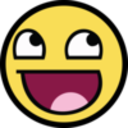
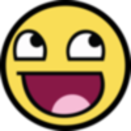
Make it work with shaders

diff --git a/shader.cpp b/shader.cpp
@@ -1,0 +1,105 @@
+#include <cassert>
+#include <stdexcept>
+#include <string>
+
+#include "shader.h"
+
+Shader::Shader(GLenum type, const char *source) : type(type)
+{
+	this->id = glCreateShader(type);
+
+	// Load & compile
+	glShaderSource(this->id, 1, &source, nullptr);
+	glCompileShader(this->id);
+
+	// Get compile result
+	GLint status;
+	glGetShaderiv(this->id, GL_COMPILE_STATUS, &status);
+
+	if (status != GL_TRUE) {
+		GLint loglen;
+		glGetShaderiv(this->id, GL_INFO_LOG_LENGTH, &loglen);
+
+		char *infolog = new char[loglen];
+		glGetShaderInfoLog(this->id, loglen, nullptr, infolog);
+
+		std::string err = "Failed to compile ";
+		err += Shader::TypeToString(this->type);
+		err += " shader:\n";
+		err += infolog;
+		delete infolog;
+		throw std::runtime_error(err);
+	}
+}
+
+Shader::~Shader()
+{
+	glDeleteShader(this->id);
+}
+
+/* static */ const char *Shader::TypeToString(GLenum type)
+{
+	switch (type) {
+		case GL_VERTEX_SHADER:
+			return "vertex";
+		case GL_FRAGMENT_SHADER:
+			return "fragment";
+		case GL_GEOMETRY_SHADER:
+			return "geometry";
+		default:
+			throw std::runtime_error("Unknown shader type");
+	}
+}
+
+ShaderProgram::ShaderProgram(Shader *vert, Shader *frag)
+{
+	this->id = glCreateProgram();
+
+	glAttachShader(this->id, vert->id);
+	glAttachShader(this->id, frag->id);
+
+	glLinkProgram(this->id);
+	GLint status;
+	glGetProgramiv(this->id, GL_LINK_STATUS, &status);
+	if (status != GL_TRUE) {
+		// TODO: More debug info
+		throw std::runtime_error("Program failed to link");
+	}
+
+	glValidateProgram(this->id);
+	glGetProgramiv(this->id, GL_VALIDATE_STATUS, &status);
+	if (status != GL_TRUE) {
+		// TODO: More debug info
+		throw std::runtime_error("Program failed to validate");
+	}
+
+	this->pos_id = glGetAttribLocation(this->id, "vertex_position");
+	this->mvpm_id = glGetUniformLocation(this->id, "mvp_matrix");
+	assert(this->pos_id != -1 || this->mvpm_id != -1);
+
+	glDetachShader(this->id, vert->id);
+	glDetachShader(this->id, frag->id);
+
+	this->tex_coord = glGetAttribLocation(this->id, "tex_coords");
+	this->texture = glGetUniformLocation(this->id, "texture");
+	assert(this->tex_coord != -1 || this->texture != -1);
+
+	this->Use();
+	glUniform1i(this->texture, 0); // Necessary?
+	this->StopUsing();
+}
+
+ShaderProgram::~ShaderProgram()
+{
+	glDeleteProgram(this->id);
+}
+
+void ShaderProgram::Use()
+{
+	glUseProgram(this->id);
+}
+
+void ShaderProgram::StopUsing()
+{
+	glUseProgram(0);
+}

diff --git a/texture.cpp b/texture.cpp
@@ -3,7 +3,7 @@
 #include <SDL2/SDL_image.h>
 
 #include "texture.h"
-
+#include "video.h"
 
 Texture::Texture(const std::string &filepath)
 {
@@ -40,33 +40,54 @@ Texture::Texture(const std::string &filepath)
 	glTexImage2D(GL_TEXTURE_2D, 0, int_format, this->width, this->height, 0, format, GL_UNSIGNED_BYTE, surface->pixels);
 
 	SDL_FreeSurface(surface);
-	glBindTexture(GL_TEXTURE_2D, 0); // Unbind from current texture
+
+	glGenBuffers(1, &this->vbo);
 }
 
 Texture::~Texture()
 {
 	glDeleteTextures(1, &this->texid);
+	glDeleteBuffers(1, &this->vbo);
 }
 
 void Texture::OnDraw(int x, int y) const
 {
-	glColor4f(1, 1, 1, 1); // Black?
+	glColor4f(1, 1, 1, 1); // Should be black?
+
+	auto shader = _vid.GetShader(0);
+
+	shader->Use();
+	int *pos_id = &shader->pos_id;
+	int *texcoord_id = &shader->tex_coord;
 
 	glActiveTexture(GL_TEXTURE0);
-	glEnable(GL_TEXTURE_2D);
 	glBindTexture(GL_TEXTURE_2D, this->texid);
 
-	glBegin(GL_TRIANGLES);
-	{
-		glTexCoord2f(0, 0); glVertex3f(x, y, 0);
-		glTexCoord2f(1, 0); glVertex3f(x + this->width, y, 0);
-		glTexCoord2f(0, 1); glVertex3f(x, y + this->height, 0);
+	float left = x;
+	float right = x + this->width;
+	float top = y;
+	float bottom = y + this->height;
 
-		glTexCoord2f(1, 0); glVertex3f(x + this->width, y, 0);
-		glTexCoord2f(0, 1); glVertex3f(x, y + this->height, 0);
-		glTexCoord2f(1, 1); glVertex3f(x + this->width, y + this->height, 0);
-	}
-	glEnd();
+	float vertices[] = {
+		left,  top,    0, 0,
+		right, top,    1, 0,
+		left,  bottom, 0, 1,
+		right, top,    1, 0,
+		left,  bottom, 0, 1,
+		right, bottom, 1, 1,
+	};
 
-	glDisable(GL_TEXTURE_2D);
+	glBindBuffer(GL_ARRAY_BUFFER, this->vbo);
+	glBufferData(GL_ARRAY_BUFFER, sizeof(vertices), vertices, GL_DYNAMIC_DRAW);
+	glEnableVertexAttribArray(*pos_id);
+	glEnableVertexAttribArray(*texcoord_id);
+	glVertexAttribPointer(*pos_id, 2, GL_FLOAT, GL_FALSE, 4 * sizeof(float), (void *)(0));
+	glVertexAttribPointer(*texcoord_id, 2, GL_FLOAT, GL_FALSE, 4 * sizeof(float), (void *)(2*sizeof(float)));
+
+	glDrawArrays(GL_TRIANGLES, 0, 6); // 2 triangles
+
+	/* Clean up */
+	glBindBuffer(GL_ARRAY_BUFFER, 0);
+	glDisableVertexAttribArray(*pos_id);
+	glDisableVertexAttribArray(*texcoord_id);
 }

diff --git a/video.cpp b/video.cpp
@@ -1,3 +1,4 @@
+#include <fstream>
 #include <stdexcept>
 #include <string>
 
@@ -23,9 +24,11 @@ Video::Video() : running(true)
 	SDL_GL_SetAttribute(SDL_GL_DOUBLEBUFFER, 1);
 	SDL_GL_SetAttribute(SDL_GL_DEPTH_SIZE, 24);
 
-	int flags = SDL_WINDOW_OPENGL | SDL_WINDOW_RESIZABLE | SDL_WINDOW_MAXIMIZED;
+	int flags = SDL_WINDOW_OPENGL | SDL_WINDOW_RESIZABLE;
+	int width = 800;
+	int height = 600;
 
-	this->window = SDL_CreateWindow("lolpenGL", SDL_WINDOWPOS_CENTERED, SDL_WINDOWPOS_CENTERED, 800, 600, flags);
+	this->window = SDL_CreateWindow("lolpenGL", SDL_WINDOWPOS_CENTERED, SDL_WINDOWPOS_CENTERED, width, height, flags);
 	if (this->window == nullptr) {
 		std::string err = "Error creating SDL window: ";
 		err += SDL_GetError();
@@ -75,6 +78,8 @@ Video::Video() : running(true)
 
 	glDisable(GL_DEPTH_TEST); // what's drawn last is displayed on top.
 	glEnable(GL_TEXTURE_2D);
+
+	this->OnResize(width, height);
 }
 
 Video::~Video()
@@ -128,6 +133,30 @@ bool Video::EventLoop()
 		}
 	}
 	return true;
+}
+
+#include <iostream>
+
+void Video::AddShader(int id, Shader *vert, Shader *frag)
+{
+	if (vert == nullptr || frag == nullptr) {
+		auto it = this->shaders.find(id);
+		if (it != this->shaders.end()) {
+			this->shaders.erase(it);
+		} else {
+			throw std::runtime_error("Tried to remove non-existant shader: " + std::to_string(id));
+		}
+	}
+	this->shaders.emplace(std::make_pair(id, std::unique_ptr<ShaderProgram>(new ShaderProgram(vert, frag))));
+}
+
+ShaderProgram *Video::GetShader(int id)
+{
+	auto it = this->shaders.find(id);
+	if (it != this->shaders.end()) {
+		return this->shaders.at(id).get();
+	}
+	return nullptr;
 }
 
 void Video::Render()

diff --git a/main.cpp b/main.cpp
@@ -1,19 +1,42 @@
-#include <stdexcept>
+#include <fstream>
 #include <iostream>
+#include <stdexcept>
 
 #include "texture.h"
 #include "video.h"
 
 Container _sprite_container;
+Video _vid;
+
+std::string LoadFile(const char *filepath)
+{
+	std::ifstream f(filepath);
+	std::string str;
+
+	f.seekg(0, std::ios::end);
+	str.reserve(f.tellg());
+	f.seekg(0, std::ios::beg);
+
+	str.assign((std::istreambuf_iterator<char>(f)), std::istreambuf_iterator<char>());
+	return str;
+}
 
 int main()
 {
 	try {
-		Video vid;
+
+		std::string vert_src = LoadFile("normal.vert.glsl");
+		std::string frag_src = LoadFile("normal.frag.glsl");
+		Shader *vert = new Shader(GL_VERTEX_SHADER, vert_src.c_str());
+		Shader *frag = new Shader(GL_FRAGMENT_SHADER, frag_src.c_str());
+
+		_vid.AddShader(0, vert, frag);
+		delete vert;
+		delete frag;
 
 		_sprite_container.sprites.push_back(Sprite(new Texture("awesomeface.png"), 50, 50));
 
-		vid.Loop();
+		_vid.Loop();
 	} catch (const std::runtime_error &e) {
 		std::cerr << e.what() << std::endl;
 		return 1;

diff --git a/video.h b/video.h
@@ -1,13 +1,15 @@
 #ifndef VIDEO_H
 #define VIDEO_H
 
+#include <memory>
+#include <unordered_map>
+
 #include <SDL2/SDL.h>
 
 #include <GL/glew.h>
 #include <GL/gl.h>
 
-#include <SOIL/SOIL.h>
-
+#include "shader.h"
 
 class Video {
 public:
@@ -19,13 +21,19 @@ public:
 	void Loop();
 	bool EventLoop();
 
+	void AddShader(int id, Shader *vert, Shader *frag);
+	ShaderProgram *GetShader(int id);
+
 private:
 	void Render();
 
+	std::unordered_map<int, std::unique_ptr<ShaderProgram>> shaders;
 	bool running;
 
 	SDL_Window *window;
 	SDL_GLContext glcontext;
 };
+
+extern Video _vid;
 
 #endif /* VIDEO_H */

diff --git a/shader.h b/shader.h
@@ -1,0 +1,36 @@
+#ifndef SHADER_H
+#define SHADER_H
+
+#include <GL/glew.h>
+#include <GL/gl.h>
+
+class Shader {
+public:
+	Shader(GLenum type, const char *source);
+	~Shader();
+
+	GLuint id;
+	GLenum type;
+
+private:
+	static const char *TypeToString(GLenum type);
+};
+
+class ShaderProgram {
+public:
+	ShaderProgram(Shader *vert, Shader *frag);
+	~ShaderProgram();
+
+	void Use();
+	void StopUsing();
+
+	GLint tex_coord;
+	GLint mvpm_id;
+	GLint pos_id;
+	GLint texture;
+private:
+	GLuint id;
+};
+
+
+#endif /* SHADER_H */

diff --git a/texture.h b/texture.h
@@ -19,6 +19,7 @@ public:
 
 private:
 	GLuint texid;
+	GLuint vbo;
 	int width;
 	int height;
 };
